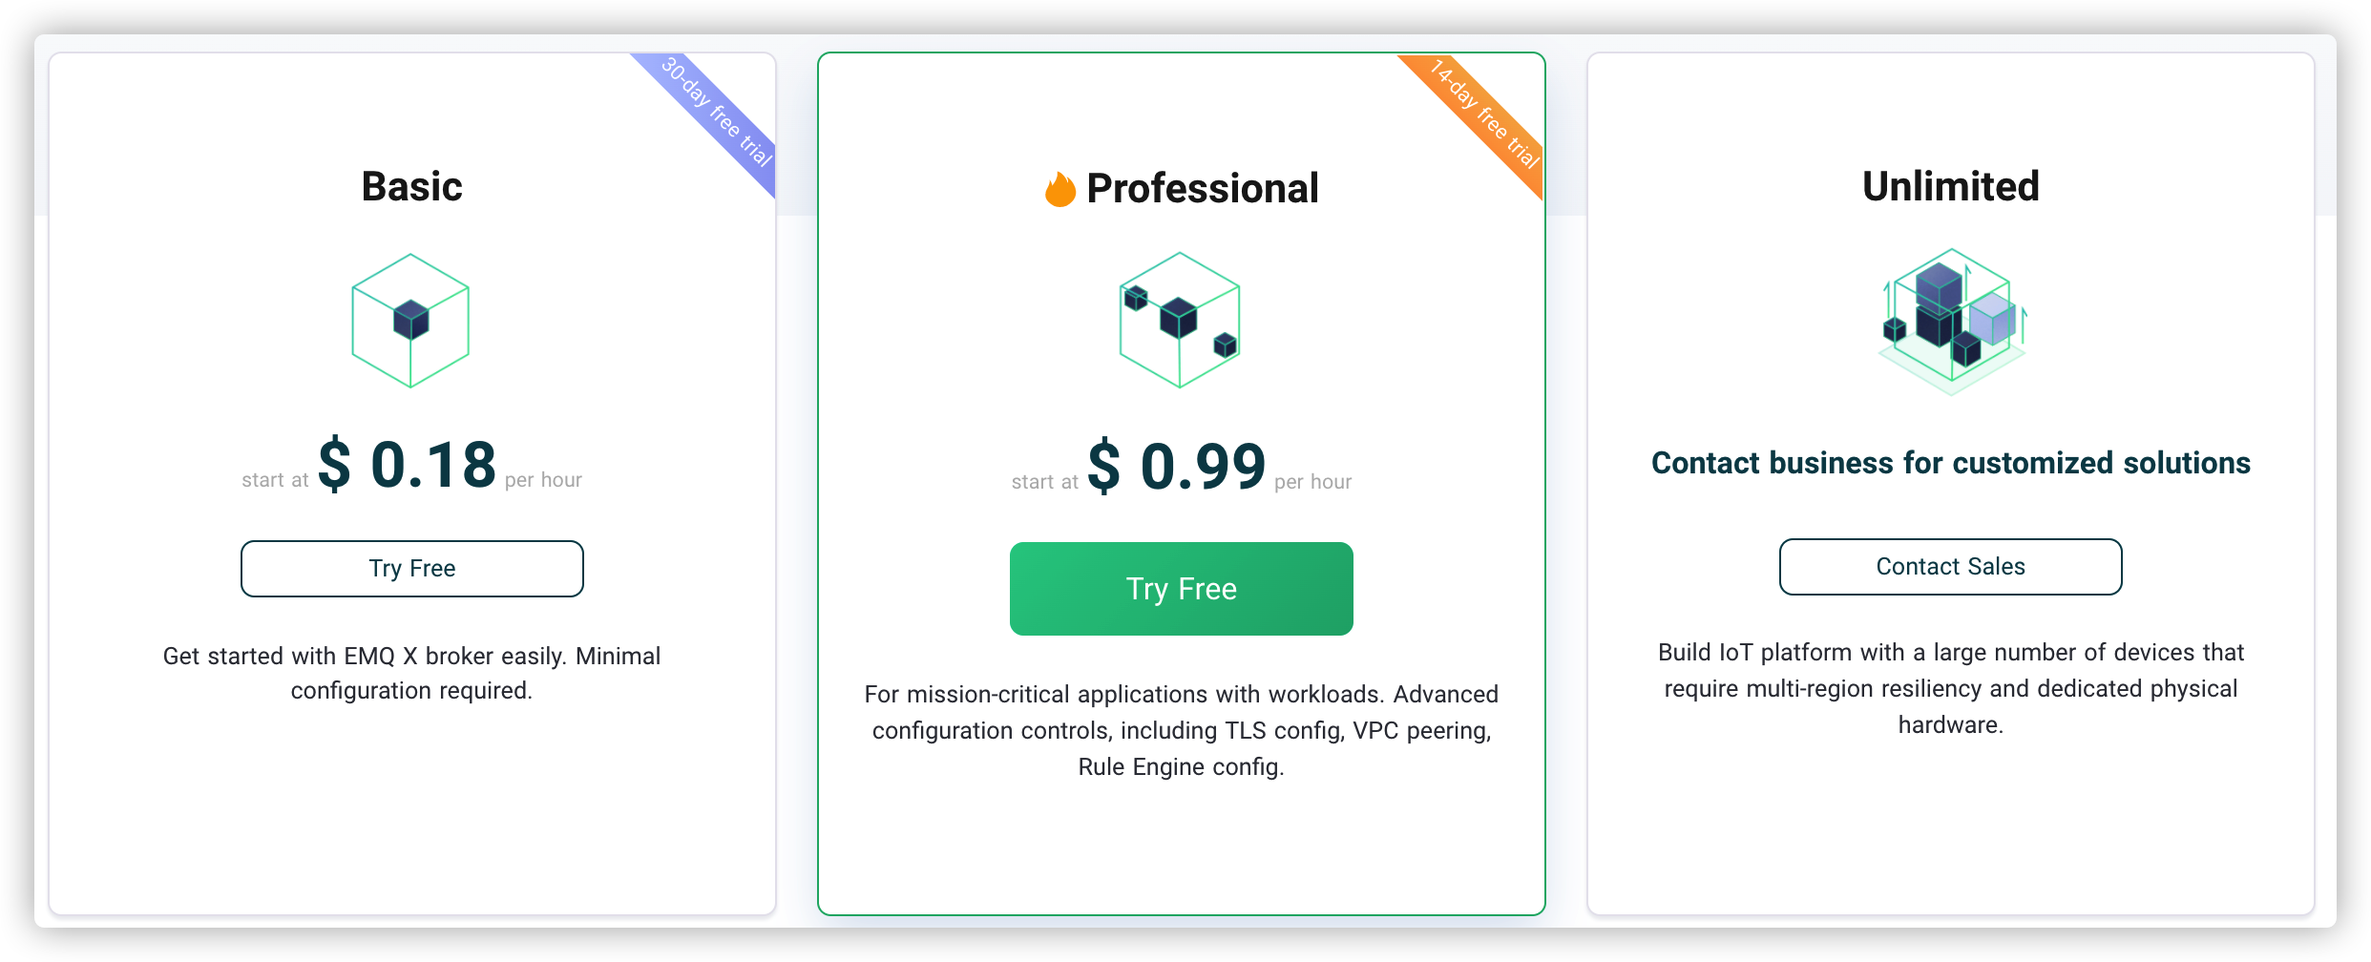
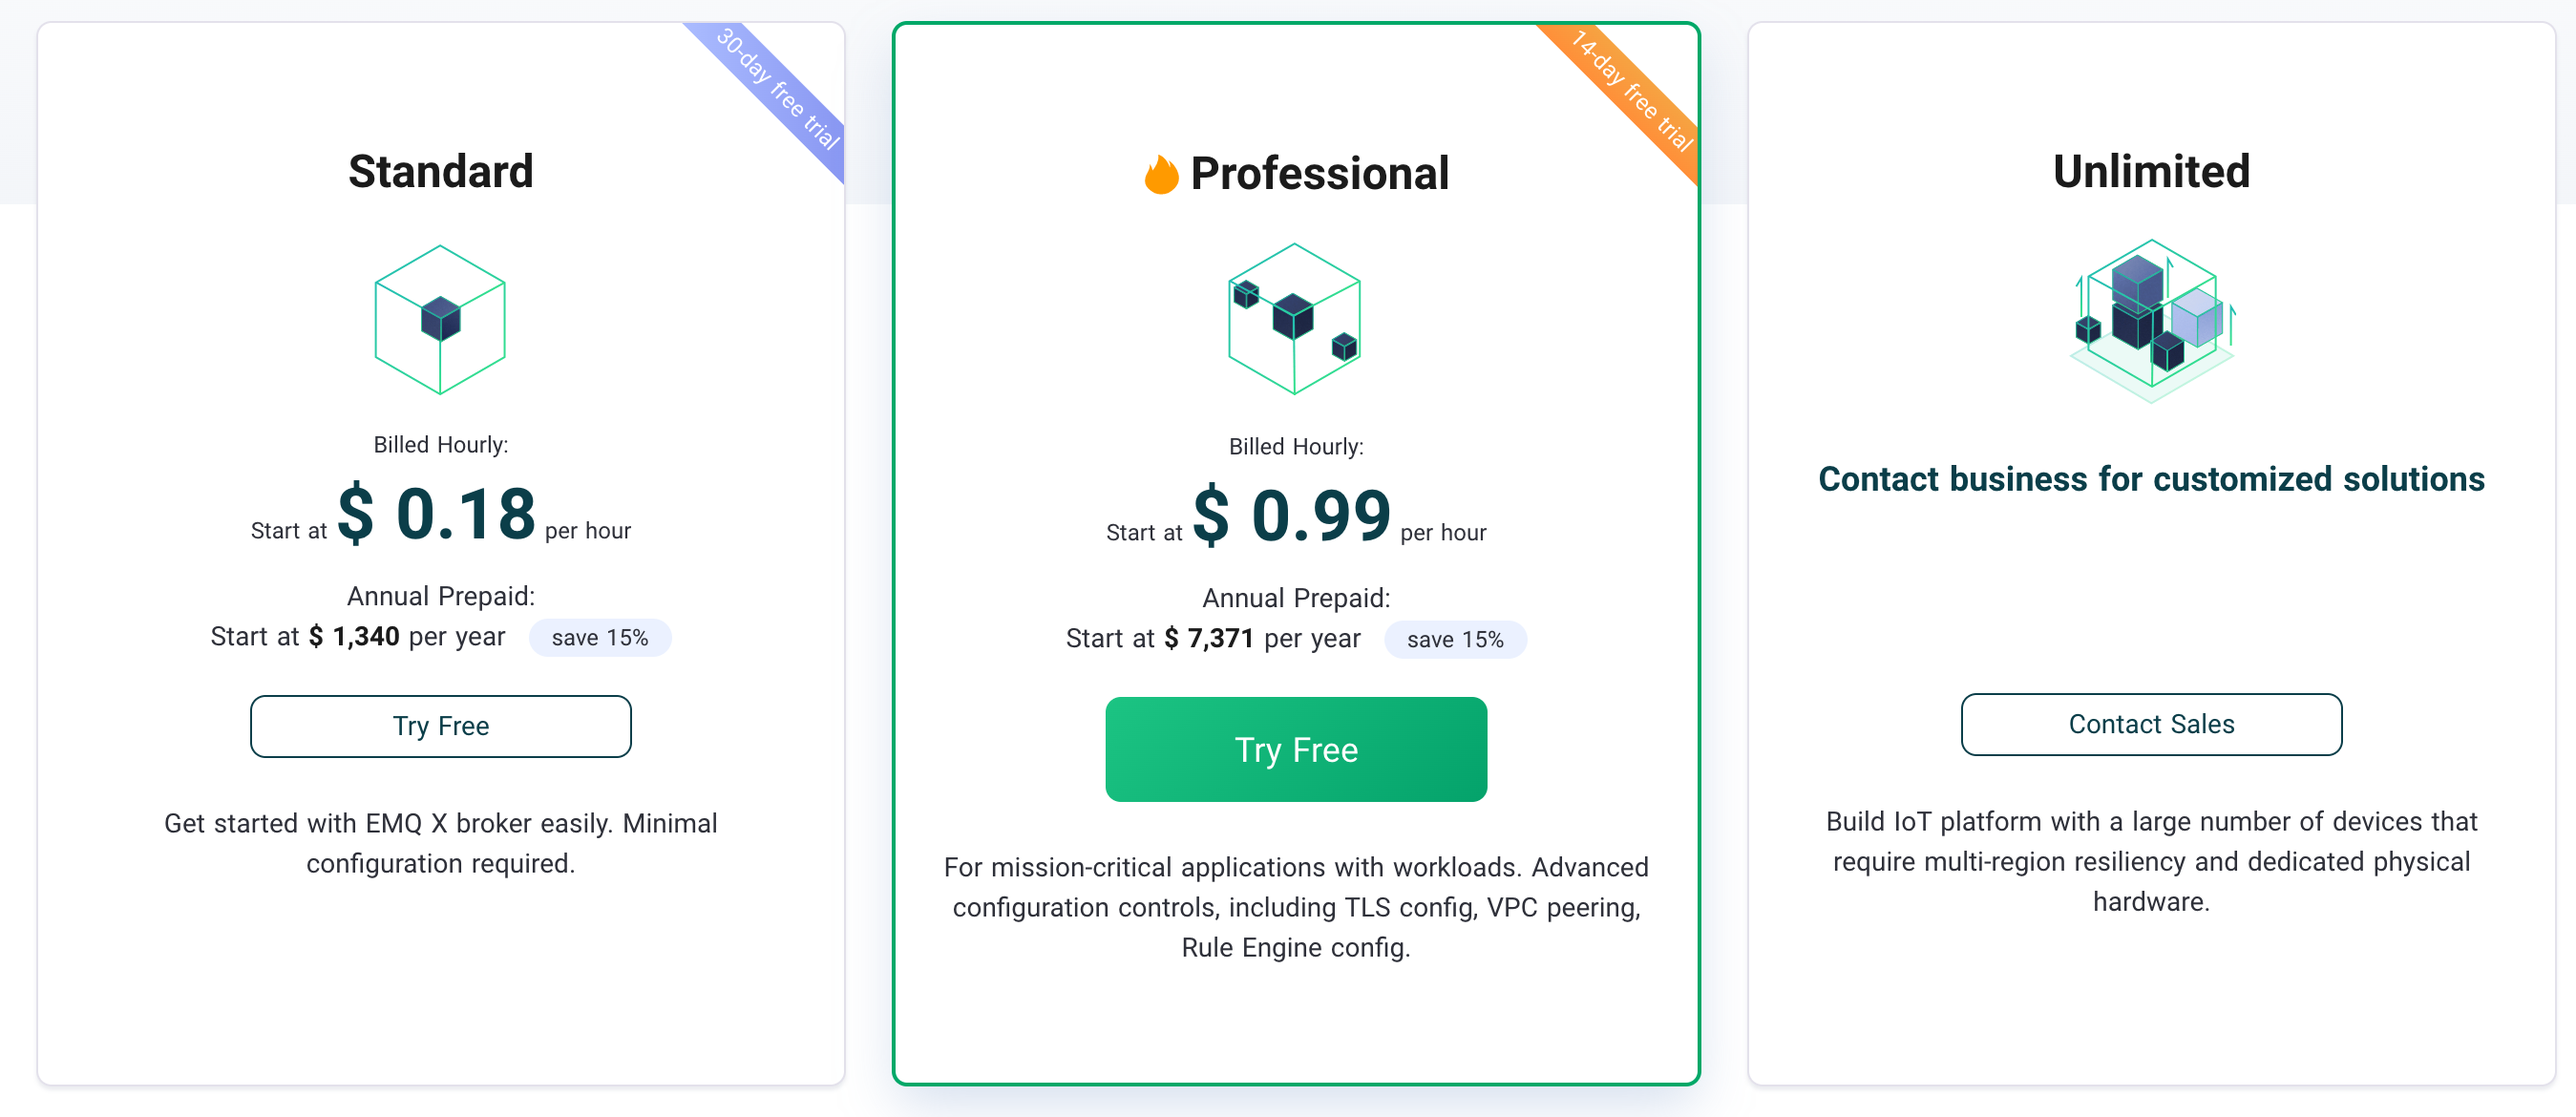
fix(docs): change key words

Changed region(s): [[0.0, 0.0, 0.9919, 0.9841], [0.062, 0.123, 0.279, 0.7996], [0.434, 0.123, 0.558, 0.2153]]

diff --git a/en_US/overview.md b/en_US/overview.md
@@ -34,11 +34,11 @@ In this model, the MQTT service provided by EMQ X Cloud not only bridges the gap
 
 ## Product Plans
 
-EMQ X Cloud comes in three plans, each with multiple specifications, and we support the deployment of your own fully managed MQTT service on the world's leading public clouds
+EMQ X Cloud comes in three plans, each with multiple specifications, and we support the deployment of your own fully managed MQTT service on the world's leading public clouds.
 
 ![edition](./_assets/pricing.png)
 
-1. Basic: For learning and experiencing the MQTT protocol or EMQ X Broker product, and developing lightweight IoT applications.
+1. Standard: For learning and experiencing the MQTT protocol or EMQ X Broker product, and developing lightweight IoT applications.
 2. Professional: for building mission-critical IoT applications, this plan provides advanced features such as data persistence, message distribution, VPC peering connection.
 3. Unlimited: Suitable for building enterprise-class IoT platform, providing support for multi-location and exclusive hardware deployment, and adding features such as device management, device shadowing, and thing model.
 
@@ -63,7 +63,7 @@ Multi-protocol and private protocol support, please contact us by [ticket](featu
 
 ### Device Management
 
-EMQ X Cloud Basic and Professional plans provide rich REST APIs that allow users to integrate with their device management systems and IoT platforms through APIs and rule engines. The unlimited plan of EMQ X Cloud provides enterprise-class device management capabilities, allowing users to create and manage device objects directly with the enterprise plan, and manage edge endpoint devices and gateway devices with features unique to the unlimited plan such as device shadowing and cloud edge collaboration.
+EMQ X Cloud Standard and Professional plans provide rich REST APIs that allow users to integrate with their device management systems and IoT platforms through APIs and rule engines. The unlimited plan of EMQ X Cloud provides enterprise-class device management capabilities, allowing users to create and manage device objects directly with the enterprise plan, and manage edge endpoint devices and gateway devices with features unique to the unlimited plan such as device shadowing and cloud edge collaboration.
 
 ![device_manager_1](./_assets/device_manage1.png)
 

diff --git a/en_US/price/pricing.md b/en_US/price/pricing.md
@@ -4,11 +4,11 @@ We offer a variety of flexible product specifications to support the deployment 
 
 ## Product Plans
 
-EMQ X Cloud is available in three plans: Basic, Professional, and Unlimited.
+EMQ X Cloud is available in three plans: Standard, Professional, and Unlimited.
 
 ![plan](./_assets/pricing.png)
 
-- Basic: Suitable for learning and experiencing the MQTT protocol or EMQ X Broker product, and developing lightweight IoT applications. The Basic plan offers a 30-day free trial.
+- Standard: Suitable for learning and experiencing the MQTT protocol or EMQ X Broker product, and developing lightweight IoT applications. The Standard plan offers a 30-day free trial.
 - Professional: For building mission-critical IoT applications, this plan provides advanced features such as data persistence, message distribution, VPC peer-to-peer connectivity, and more. The Professional plan is available for a 14-day free trial.
 - Unlimited: Suitable for building enterprise-class IoT platforms, this plan provides support for multi-territory and exclusive hardware deployments and adds device management, device shadowing, and thing modeling features.
 
@@ -26,7 +26,7 @@ EMQ X Cloud is available in three plans: Basic, Professional, and Unlimited.
       <th>Overage Unit Price</th>
    </tr>
    <tr>
-      <td rowspan="3">Basic</td>
+      <td rowspan="3">Standard</td>
       <td>1,000 connections / Up to 1,000 TPS</td>
       <td>from $ 0.18/hr</td>
       <td rowspan="3">100G/month</td>
@@ -81,7 +81,7 @@ Note: Prices may vary depending on the public cloud platform selected and the de
 <table>
   <tr>
       <th></th>
-      <th>Basic</th>
+      <th>Standard</th>
       <th>Professional</th>
       <th>Unlimited</th>
     </tr>

diff --git a/en_US/price/calculator.md b/en_US/price/calculator.md
@@ -20,7 +20,7 @@ EMQ X Cloud pricing calculator allows you to estimate the cost of creating deplo
 
 You can select cloud platform, region, and specifications to get the hourly price of deployment.
 
-> Basic Plan: Choose Azure Platform, US East (N. Virginia) area, the maximum number of connections is 1000, the message upstream and downstream TPS is 1000, the hourly price is 0.99, and the monthly basic cost is: 0.99 * 730 = 722.7
+> Standard Plan: Choose Azure Platform, US East (N. Virginia) area, the maximum number of connections is 1000, the message upstream and downstream TPS is 1000, the hourly price is 0.99, and the monthly cost is: 0.99 * 730 = 722.7
   
   ![deployment_price](./_assets/calculator.png)
 
